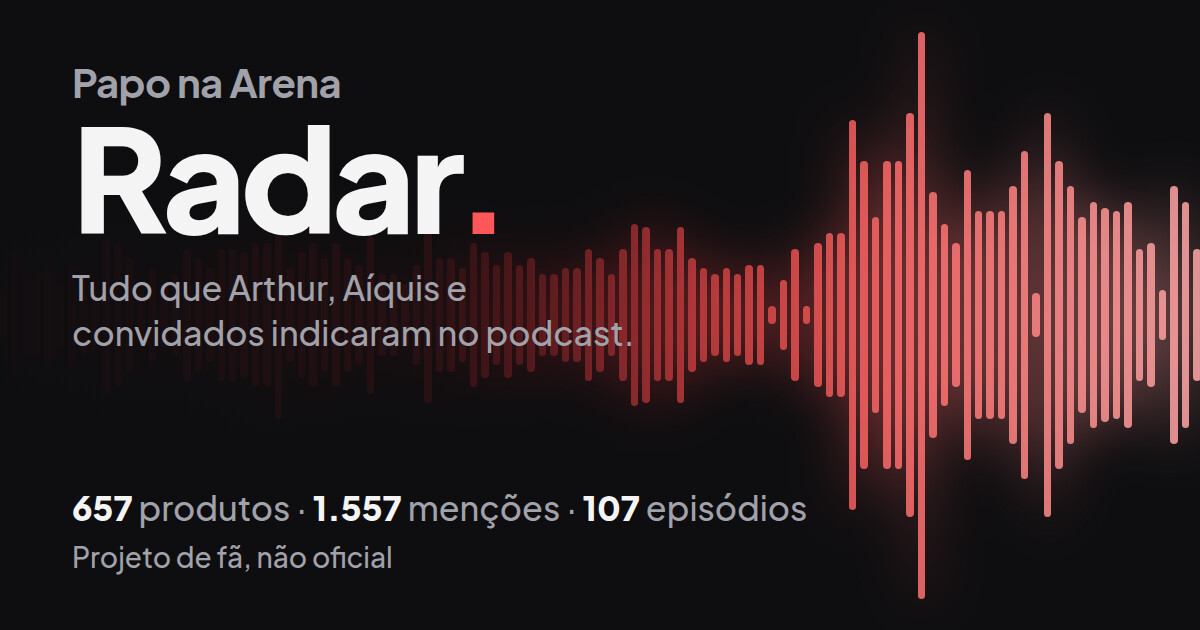
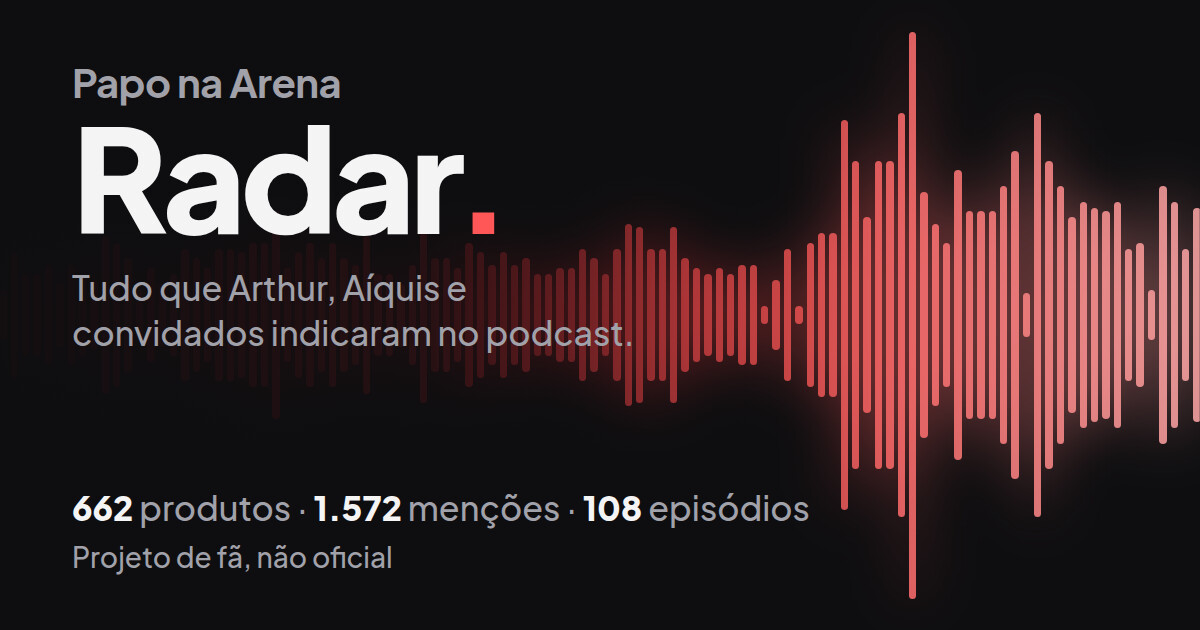
Adiciona o episódio 144 (Como sobreviver a mais um planejamento anual?)
15 menções, com GTA 6 indicado por 4 pessoas. Novos produtos: GTA 6, BTS,
Claude Code no celular, máquina de fazer pão, iCloud, MacBook Pro M5 e o
combo Claude Code + PostHog. Nova pessoa: Rafa Brandão. Imagem OG
regerada com os totais atualizados.

Changed region(s): [[0.37, 0.0302, 1.0, 0.9651], [0.0617, 0.7841, 0.3392, 0.8444], [0.4008, 0.7841, 0.4317, 0.8444]]

diff --git a/client/src/lib/data.ts b/client/src/lib/data.ts
@@ -114,6 +114,7 @@ export const episodes: Episode[] = [
   { id: 139, title: "Storytelling e comunicação são as habilidades mais importantes para PMs?", date: "2026-10-21", description: "Discussão sobre se storytelling e comunicação são as habilidades mais importantes para PMs, e os produtos da semana.", youtubeLink: "https://www.youtube.com/watch?v=EE2GEzKL-4A", spotifyLink: "https://open.spotify.com/episode/6EccJknRQyl7qAcNq6M9xq", hosts: ["arthur", "aiquis"] },
   { id: 140, title: "Como escolher o modelo de IA certo pro trabalho de produto", date: "2026-10-29", description: "Discussão sobre como escolher o modelo de IA certo pro trabalho de produto, e os produtos da semana.", youtubeLink: "https://www.youtube.com/watch?v=YkHYZ-IMTJE", spotifyLink: "https://open.spotify.com/episode/6LhCzWzmnPCFcZLty9IBl3", hosts: ["arthur", "aiquis"] },
   { id: 143, title: "Como foi o Product Leader Summit 2026?", date: "2026-11-19", description: "Como foi o Product Leader Summit 2026? E os produtos da semana.", youtubeLink: "https://www.youtube.com/watch?v=S6j-DbuXBwE", spotifyLink: "https://open.spotify.com/episode/4Y23u1ENzeIgpwof5sgsCn", hosts: ["arthur", "aiquis"] },
+  { id: 144, title: "Como sobreviver a mais um planejamento anual?", date: "2026-11-25", description: "Como sobreviver a mais um planejamento anual? E os produtos da semana.", youtubeLink: "https://www.youtube.com/watch?v=oiKnIXOKcG0", spotifyLink: "https://open.spotify.com/episode/3DKR0bg6g83fNZeV0FHKin", hosts: ["arthur", "aiquis"] },
 ];
 
 export const products: Product[] = [
@@ -872,6 +873,13 @@ export const products: Product[] = [
   { id: "ductus", name: "Ductus", category: "Productivity", url: "https://ductus.sorenblank.com/" },
   { id: "graveyard-keeper", name: "Graveyard Keeper", category: "Entertainment", url: "https://store.steampowered.com/app/599140/Graveyard_Keeper/" },
   { id: "lego-dragon-ball-z", name: "Lego do Dragon Ball Z", category: "Lifestyle" },
+  { id: "gta-6", name: "GTA 6", category: "Entertainment", url: "https://www.rockstargames.com/VI" },
+  { id: "bts", name: "BTS", category: "Entertainment" },
+  { id: "claude-code-mobile", name: "Claude Code no celular", category: "AI Tools", url: "https://claude.ai", parentId: "claude-code" },
+  { id: "maquina-de-pao", name: "Máquina de fazer pão", category: "Hardware" },
+  { id: "icloud", name: "iCloud", category: "Productivity", url: "https://www.icloud.com" },
+  { id: "macbook-pro-m5", name: "MacBook Pro M5", category: "Hardware", url: "https://www.apple.com/macbook-pro/" },
+  { id: "combo-claude-code-posthog", name: "Claude Code + PostHog", category: "AI Tools", alsoCredits: ["claude-code", "posthog"] },
 ];
 
 export const people: Person[] = [
@@ -1295,6 +1303,7 @@ export const people: Person[] = [
   { id: "brunno-matias", name: "Brunno Matias" },
   { id: "juliana-assuncao", name: "Juliana Assunção" },
   { id: "luana-rodrigues", name: "Luana Rodrigues" },
+  { id: "rafa-brandao", name: "Rafa Brandão" },
 ];
 
 export const mentions: Mention[] = [
@@ -2855,4 +2864,19 @@ export const mentions: Mention[] = [
   { id: "m143-19", episodeId: 143, personId: "lucao", productId: "antigravity", context: "Com Gemini Hydrogen" },
   { id: "m143-20", episodeId: 143, personId: "lucao", productId: "graveyard-keeper" },
   { id: "m143-21", episodeId: 143, personId: "matt-lopes", productId: "lego-dragon-ball-z" },
+  { id: "m144-1", episodeId: 144, personId: "arthur", productId: "snapmaker-u1", context: "A melhor coisa que inventaram depois da AI; impressora 3D com AI é imbatível" },
+  { id: "m144-2", episodeId: 144, personId: "aiquis", productId: "gta-6", context: "A obra-prima da Rockstar Games e o último grande fenômeno cultural sem AI; 18 horas de jogo e ainda no capítulo 1" },
+  { id: "m144-3", episodeId: 144, personId: "portinho", productId: "bts", context: "Recebeu uma encomenda na loja de impressão 3D (dito.3d) e descobriu que BTS é fenômeno" },
+  { id: "m144-4", episodeId: 144, personId: "matt-lopes", productId: "gta-6" },
+  { id: "m144-5", episodeId: 144, personId: "rafael-mathias", productId: "gta-6" },
+  { id: "m144-6", episodeId: 144, personId: "danilera", productId: "gta-6" },
+  { id: "m144-7", episodeId: 144, personId: "lucao", productId: "graveyard-keeper" },
+  { id: "m144-8", episodeId: 144, personId: "andrezinho", productId: "wisprflow" },
+  { id: "m144-9", episodeId: 144, personId: "rafa-brandao", productId: "airbnb" },
+  { id: "m144-10", episodeId: 144, personId: "huxley", productId: "claude-code-mobile" },
+  { id: "m144-11", episodeId: 144, personId: "henrique-boz", productId: "maquina-de-pao" },
+  { id: "m144-12", episodeId: 144, personId: "silvinha", productId: "whoop" },
+  { id: "m144-13", episodeId: 144, personId: "lucas-mattos", productId: "icloud" },
+  { id: "m144-14", episodeId: 144, personId: "fabio-beico", productId: "macbook-pro-m5" },
+  { id: "m144-15", episodeId: 144, personId: "carlos-bronze", productId: "combo-claude-code-posthog" },
 ];
